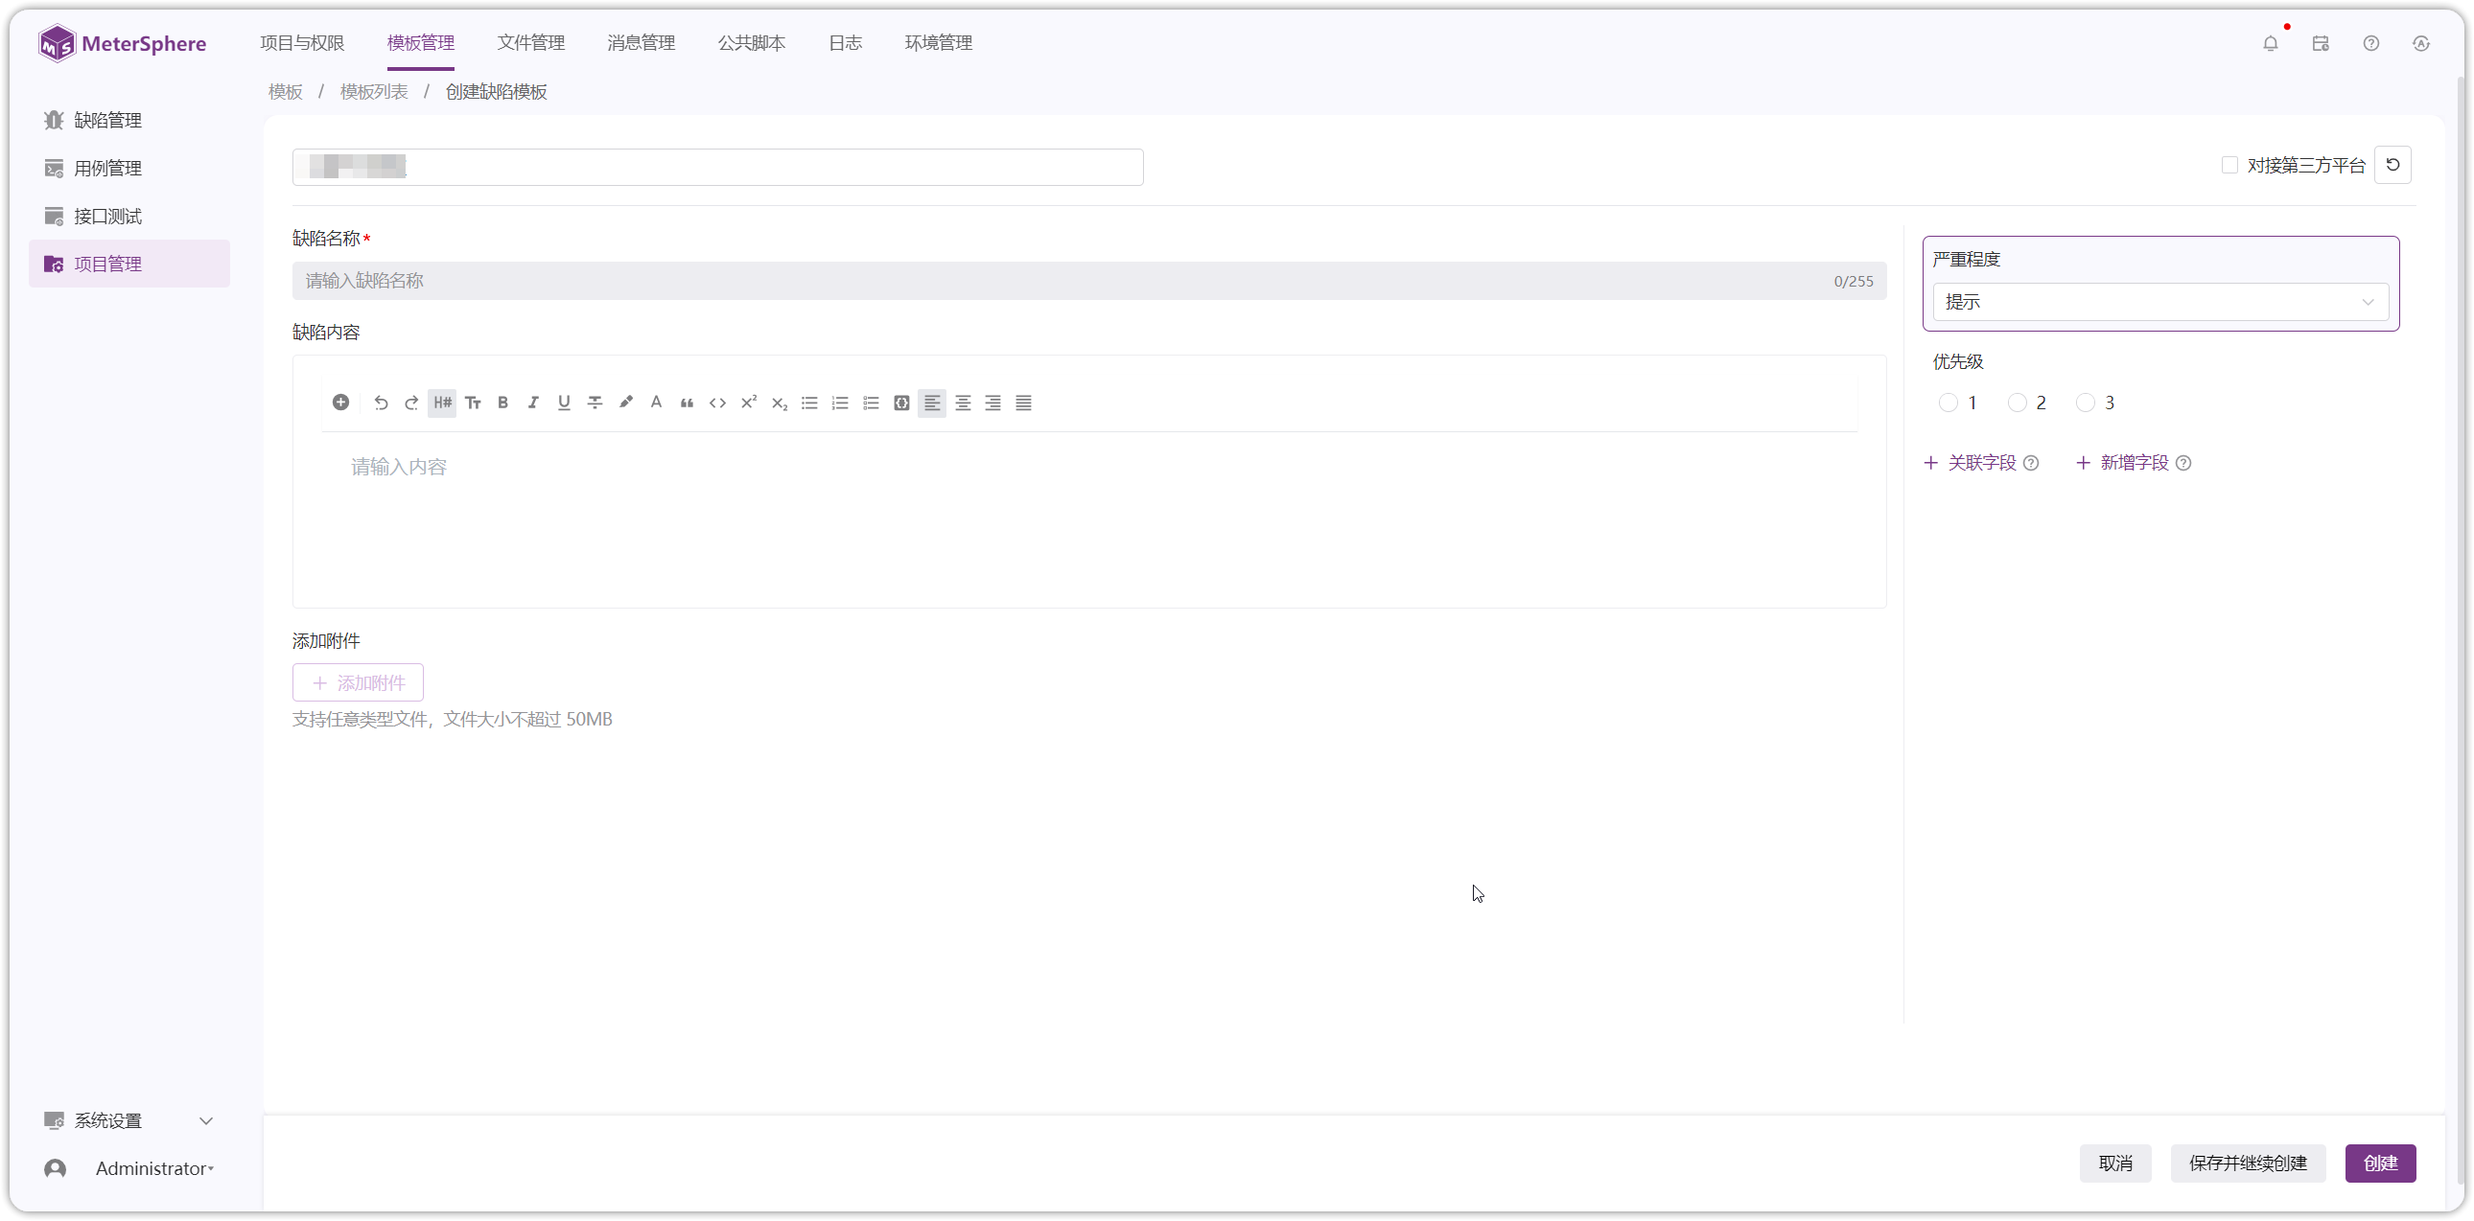
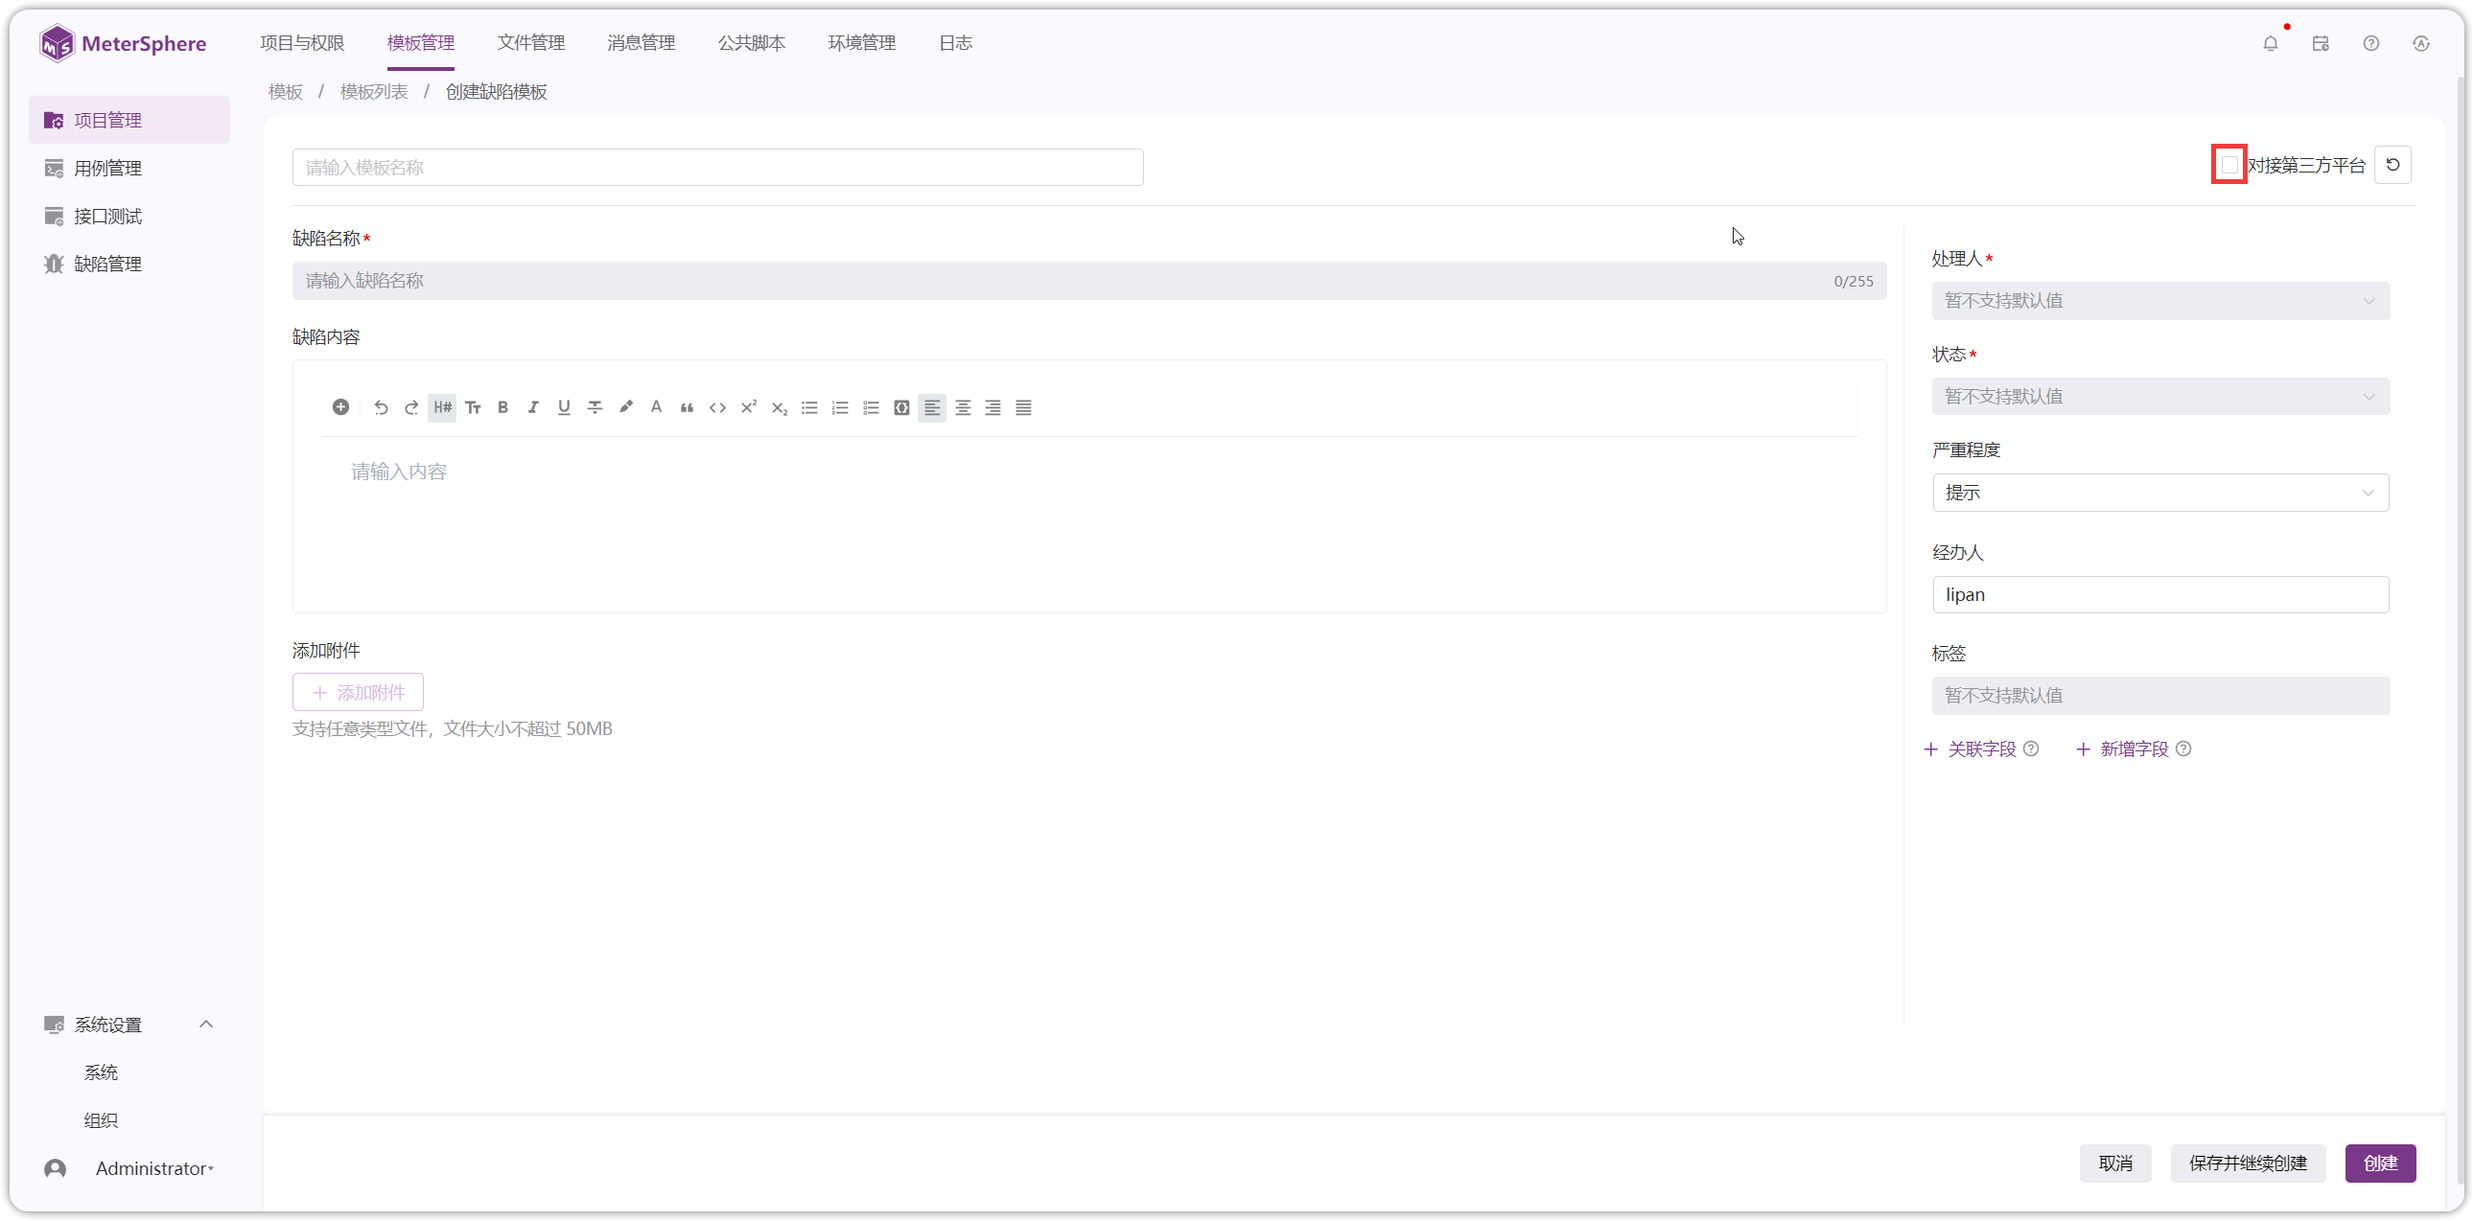
modified:【项目管理/缺陷管理】模块

diff --git a/docs/user_manual/defect_management/defect_management.md b/docs/user_manual/defect_management/defect_management.md
@@ -3,59 +3,45 @@ description: MeterSphere 一站式开源持续测试平台官方文档。MeterSp
 ---
 
 ## 1 缺陷
-### 1.1 缺陷模板
+### 1.1 缺陷管理
 !!! ms-abstract ""
-    缺陷模板设置：<br>
-
-    - **本地平台模板**：进入【系统设置】-【模板管理】-【缺陷模板】-【模板】进入模板页面，开启要使用的模板
-    - **第三方平台模板**：先在【系统设置】-【组织】-【服务集成】处配置第三方平台（如 JIRA、禅道、TAPD 等），然后在【模板】处开启项目模板。此操作不可逆，请谨慎操作！！！<br>
-
-!!! ms-abstract ""
-    在【项目管理】-【项目权限】-【应用设置】-【缺陷管理】处配置【同步缺陷】的项目平台、项目 Key、缺陷类型、同步机制、同步频率等内容。以 JIRA 平台为例。
-![!缺陷平台设置](../../img/defect_management/缺陷平台设置.png){ width="900px" }
-
-![!开启缺陷模板](../../img/defect_management/开启缺陷模板.png){ width="900px" }
-
-!!! ms-abstract ""
-    点击【系统设置】-【模板管理】-【缺陷模板】-【模板】进入模板页面
-![!进入模板页面](../../img/defect_management/进入模板页面.png){ width="900px" }
-
-!!! ms-abstract ""
-    在模板管理页面，存在系统【默认模板】和【JIRA 默认模板】，系统【默认模板】可以进行自定义，【JIRA 默认模板】自动生成，不可更改。
-![!系统模板和jira模板](../../img/defect_management/系统模板和jira模板.png){ width="900px" }
-
-!!! ms-abstract ""
-    开启【JIRA 默认模板】为项目默认模板，在【缺陷管理】创建页面，默认展示【JIRA 默认模板】内容
-![!项目设置jira模板](../../img/defect_management/项目设置jira模板.png){ width="900px" }
-
-### 1.2 缺陷管理
-!!! ms-abstract ""
-    点击【缺陷管理】-【缺陷】进入缺陷页面，点击【创建缺陷】进行缺陷创建
+    点击【缺陷管理-缺陷】进入缺陷页面，点击【创建缺陷】进行缺陷创建
 ![!缺陷创建](../../img/defect_management/缺陷创建.png){ width="900px" }
 
 !!! ms-abstract ""
-    进入缺陷页面，默认展示【JIRA 默认模板】内容，填写相应内容进行创建。也可以切换到系统【默认模板】内容，填写相应内容进行创建
+    进入缺陷页面，默认展示【JIRA 默认模板】内容，填写相应内容进行创建。也可以切换到【默认模板】，填写相应内容进行创建
 ![!jira默认模板填写内容](../../img/defect_management/jira默认模板填写内容.png){ width="900px" }
 
 ![!系统默认模板](../../img/defect_management/系统默认模板.png){ width="900px" }
 
+!!! ms-abstract "字段说明"
+    - 【缺陷名称】自定义缺陷名称
+    - 【缺陷模板】可选择本地平台模板或第三方平台模板，配置缺陷模板步骤，详情参考：[模板设置](../project_management/template_management.md/#22)
+    - 【描述】缺陷的详细步骤进行描述
+    - 【附件】上传或关联任意类型文件，限制文件大小为 50 MB
+
 !!! ms-abstract ""
-    缺陷列表页面，缺陷的所属平台为 JIRA 
+    缺陷创建完成后，在缺陷列表页面，可看到缺陷所属平台是 JIRA 或 Local
 ![!展示jira平台](../../img/defect_management/展示jira平台.png){ width="900px" }
 
+### 1.2 同步缺陷
 !!! ms-abstract ""
-    JIRA【自动同步】根据在【项目管理】-【项目权限】-【应用设置】-【缺陷管理】-【同步缺陷】处配置的内容生效
+    【自动同步】根据在【项目管理-项目权限-应用设置-缺陷管理】处配置的内容生效，详情参考：[自动同步配置](../project_management/project_permissions.md/#21)
 ![!缺陷平台设置](../../img/defect_management/缺陷平台设置.png){ width="900px" }
 
-!!! ms-abstract "操作说明"
-    - 【同步缺陷】缺陷手动同步到第三方平台。
-    - 【复制】复制缺陷
-    - 【编辑】编辑缺陷名称、缺陷内容
-    - 【删除】删除缺陷，MeterSphere 创建的缺陷进入回收站，第三方平台同步的缺陷将不做回收
-    - 【导出】勾选缺陷进行导出
-    - 【清空】清空勾选的复选框
+!!! ms-abstract ""
+    【手动同步】需要点击缺陷管理页面【同步缺陷】按钮即可进行缺陷同步
+![!缺陷平台设置](../../img/defect_management/点击同步缺陷.png){ width="900px" }
 
 ![!缺陷功能操作情况](../../img/defect_management/缺陷功能操作情况.png){ width="900px" }
+
+!!! ms-abstract "操作说明"
+    - 【同步缺陷】手动同步缺陷到第三方平台
+    - 【复制】复制缺陷
+    - 【编辑】编辑缺陷名称、缺陷内容
+    - 【删除】删除缺陷时，仅对 MeterSphere 平台管理创建的缺陷有效，并进入回收站，对已同步到第三方平台的缺陷没有影响
+    - 【导出】勾选缺陷进行导出
+    - 【清空】清空勾选的复选框
 
 !!! ms-abstract ""
     点击缺陷【ID】进入缺陷详情页面
@@ -71,5 +57,5 @@ description: MeterSphere 一站式开源持续测试平台官方文档。MeterSp
 
 ## 2 回收站
 !!! ms-abstract ""
-    缺陷进行单个或批量【恢复】和【彻底删除】操作
+    在回收站中可对已删除的缺陷执行【恢复】和【彻底删除】操作
 ![!缺陷功能操作情况](../../img/defect_management/批量恢复和删除操作.png){ width="900px" }

diff --git a/docs/user_manual/project_management/template_management.md b/docs/user_manual/project_management/template_management.md
@@ -25,7 +25,7 @@ description: MeterSphere 一站式开源持续测试平台官方文档。MeterSp
 
 ### 1.2 模板设置
 !!! ms-abstract ""
-    点击【模板】进入模板设置页面，目前社区版只有一套系统默认模板，不支持自定义用例模板。
+    点击【模板】进入模板设置页面，目前社区版只有一套项目默认模板，不支持自定义用例模板。
 ![编辑模板](../../img/project_management/template_management/编辑模板.png){ width="900px" }
     
 !!! ms-abstract "操作说明"
@@ -62,22 +62,36 @@ description: MeterSphere 一站式开源持续测试平台官方文档。MeterSp
 ![新增字段的功能](../../img/project_management/template_management/新增字段的功能.png){ width="900px" }
 
 ### 2.2 模板设置
+!!! ms-abstract "注意"
+    - 【第三方平台模板】：系统自动生成，不可更改。详情参考：[第三方平台设置缺陷模板](./project_permissions.md/#21)<br>
+    - 【本地平台模板】：可编辑项目自带的默认模板和创建自定义缺陷模板，模版最多设置20个，超过20个，创建模板按钮置灰<br>
+    
 !!! ms-abstract ""
     点击【模板】进入模板设置页面，进行【新增】、【编辑】、【查看】、【复制】、【删除】以及设置为【默认模板】等操作。
 ![缺陷模板所有操作功能](../../img/project_management/template_management/缺陷模板所有操作功能.png){ width="900px" }
 
 !!! ms-abstract "操作说明"
     - 【新增】填写缺陷模板的名称、缺陷内容和新增、关联字段
-    - 【编辑】非第三方集成平台模板可进行编辑名称、缺陷内容和新增、关联字段的操作
-    - 【查看】查看非第三方集成平台缺陷模板
-    - 【复制】复制非第三方集成平台缺陷模板
-    - 【删除】系统默认模板和第三方集成平台默认生成的缺陷模板不可删除，自定义模板可进行删除操作
+    - 【编辑】本地平台模板可进行编辑名称、缺陷内容和新增、关联字段的操作
+    - 【查看】查看本地平台缺陷模板
+    - 【复制】复制本地平台缺陷模板
+    - 【删除】项目默认模板和第三方集成平台自动生成的缺陷模板不可删除，自定义模板可进行删除操作
     - 【开启/关闭】设置为项目默认模板，创建缺陷时会使用该模板
 
 !!! ms-abstract ""
-    点击【创建缺陷模板】，进入模板创建页面，自定义模板内容进行创建
+    点击【创建缺陷模板】，进入模板创建页面，自定义模板内容进行创建。
 ![新增缺陷模板](../../img/project_management/template_management/新增缺陷模板.png){ width="900px" }
 
+![新增缺陷模板](../../img/project_management/template_management/新增缺陷模板勾选第三方平台.png){ width="900px" }
+
+!!! ms-abstract "字段说明"
+    - 【对接第三方平台】勾选，自定义字段需要填写第三方平台字段 API，不勾选，不显示 API 字段
+    - 【处理人】项目内置字段，暂不支持设置默认值
+    - 【状态】项目内置字段，暂不支持设置默认值
+    - 【严重程度】项目自定义字段，可设置默认值且可删除
+    - 【关联字段】关联已添加的字段
+    - 【关联字段】新增字段
+    
 !!! ms-abstract ""
     点击新增的【缺陷模板】，即可查看模板内容。
 ![查看缺陷模板](../../img/project_management/template_management/查看缺陷模板.png){ width="900px" }

diff --git a/docs/user_manual/project_management/project_permissions.md b/docs/user_manual/project_management/project_permissions.md
@@ -18,8 +18,12 @@ description: MeterSphere 一站式开源持续测试平台官方文档。MeterSp
 
 ### 2.1 缺陷管理
 !!! ms-abstract ""
-    需要先在【系统设置-组织-服务集成】处配置 JIRA、禅道、TAPD 等第三方平台 <br>
-    点击【缺陷管理-同步缺陷】，配置同步缺陷信息，以 JIRA 为例
+    需要先在【系统设置-组织-服务集成】处配置 JIRA、禅道、TAPD 等第三方平台，然后在【系统设置-组织-模板】处开启项目模板。<br>
+    启用项目模板后，将不存在组织模版。此操作不可逆，请谨慎操作！！！
+![组织模板](../../img/project_management/template_management/组织缺陷模板.png)
+
+!!! ms-abstract ""    
+    点击【项目管理-项目与权限-应用设置-缺陷管理-同步缺陷】，配置同步缺陷信息，以 JIRA 为例
 ![!同步缺陷](../../img/project_management/project_permissions/同步缺陷.png){ width="900px" }
 
 ![!配置同步缺陷](../../img/project_management/project_permissions/配置同步缺陷.png){ width="900px" }
@@ -32,11 +36,14 @@ description: MeterSphere 一站式开源持续测试平台官方文档。MeterSp
     - **同步频率**：设置自动同步的时间点 <br>
     - **状态**：开启/关闭，平台创建的缺陷同步或不同步至第三方项目管理平台
 
-![!配置同步缺陷](../../img/project_management/project_permissions/配置同步缺陷1.png){ width="900px" }
-
 ### 2.2 用例管理
 !!! ms-abstract ""
-    点击【用例管理】，可开启/关闭【重新评审】、【关联需求】功能
+    需要先在【系统设置-组织-服务集成】处配置 JIRA、禅道、TAPD 等第三方平台，然后在【系统设置-组织-模板】处开启项目模板。<br>
+    启用项目模板后，将不存在组织模版。此操作不可逆，请谨慎操作！！！
+![组织模板](../../img/project_management/template_management/组织模板.png)
+
+!!! ms-abstract ""
+    点击【项目管理-项目与权限-应用设置-用例管理】，可开启/关闭【重新评审】、【关联需求】功能
 ![!用例管理](../../img/project_management/project_permissions/用例管理.png){ width="900px" }
 
 !!! ms-abstract "说明"

diff --git a/docs/user_manual/project_management/message_management.md b/docs/user_manual/project_management/message_management.md
@@ -13,7 +13,7 @@ description: MeterSphere 一站式开源持续测试平台官方文档。MeterSp
 ![!创建webhook机器人](../../img/project_management/message_management/创建webhook机器人.png){ width="900px" }
 
 !!! ms-abstract ""
-    以配置【企业微信】机器人为例。创建企业微信群，选择【...-添加群机器人】后，获取【webhook】地址
+    以配置【企业微信】机器人为例。创建企业微信群，选择【... -添加群机器人】后，获取【webhook】地址
 ![!创建webhook机器人](../../img/project_management/message_management/群创建机器人.png){ width="900px" }
 
 !!! ms-abstract ""
@@ -43,7 +43,7 @@ description: MeterSphere 一站式开源持续测试平台官方文档。MeterSp
 ![!自定义模板](../../img/project_management/message_management/缺陷创建通知.png){ width="900px" } 
 
 !!! ms-abstract ""
-    点击【缺陷管理】-【创建缺陷】，填写缺陷内容后进行创建，企业微信群接收到消息通知
+    点击【缺陷管理-创建缺陷】，填写缺陷内容后进行创建，企业微信群接收到消息通知
 
 
     

diff --git a/docs/user_manual/project_management/environment.md b/docs/user_manual/project_management/environment.md
@@ -34,7 +34,7 @@ description: MeterSphere 一站式开源持续测试平台官方文档。MeterSp
     - 【复制】复制环境
     - 【编辑】编辑环境域名、启用条件、请求头等内容
     - 【删除】删除环境
-    - 【导入】导入环境，开启【覆盖】，环境名称重复则覆盖，不重复则新增；关闭【覆盖】，环境名称重复则不导入
+    - 【导入】导入环境，开启覆盖，环境名称重复则覆盖，不重复则新增；关闭覆盖，环境名称重复则不导入
     - 【导出】勾选或全选环境导出
 
 ![!环境进行复制删除操作](../../img/project_management/enviroment/环境进行复制删除操作.png){ width="900px" }

diff --git a/docs/user_manual/defect_management/overview.md b/docs/user_manual/defect_management/overview.md
@@ -4,6 +4,6 @@ description: MeterSphere 一站式开源持续测试平台官方文档。MeterSp
 
 !!! ms-abstract ""
 
-    管理该项目下所有的缺陷信息，若缺陷使用了其他第三方集成平台（如 JIRA、TAPD、禅道等），则缺陷会自动同步或手动同步到第三方平台
+    管理项目下的缺陷信息，若系统对接了其它第三方平台（如 JIRA、TAPD、禅道等），可进行手动或自动同步。
 
 ![!项目设置](../../img/defect_management/缺陷页面.png){ width="900px" }

diff --git a/docs/user_manual/project_management/public_script.md b/docs/user_manual/project_management/public_script.md
@@ -4,7 +4,7 @@ description: MeterSphere 一站式开源持续测试平台官方文档。MeterSp
 
 !!! ms-abstract ""
     维护当前项目接口测试里使用的参数、前后置脚本<br>
-    点击【项目管理】-【公共脚本】-【添加公共脚本】，进入添加公共脚本页面
+    点击【项目管理-公共脚本-添加公共脚本】，进入添加公共脚本页面
 ![!公共脚本页面](../../img/project_management/public_script/公共脚本页面.png){ width="900px" }
 
 !!! ms-abstract ""
